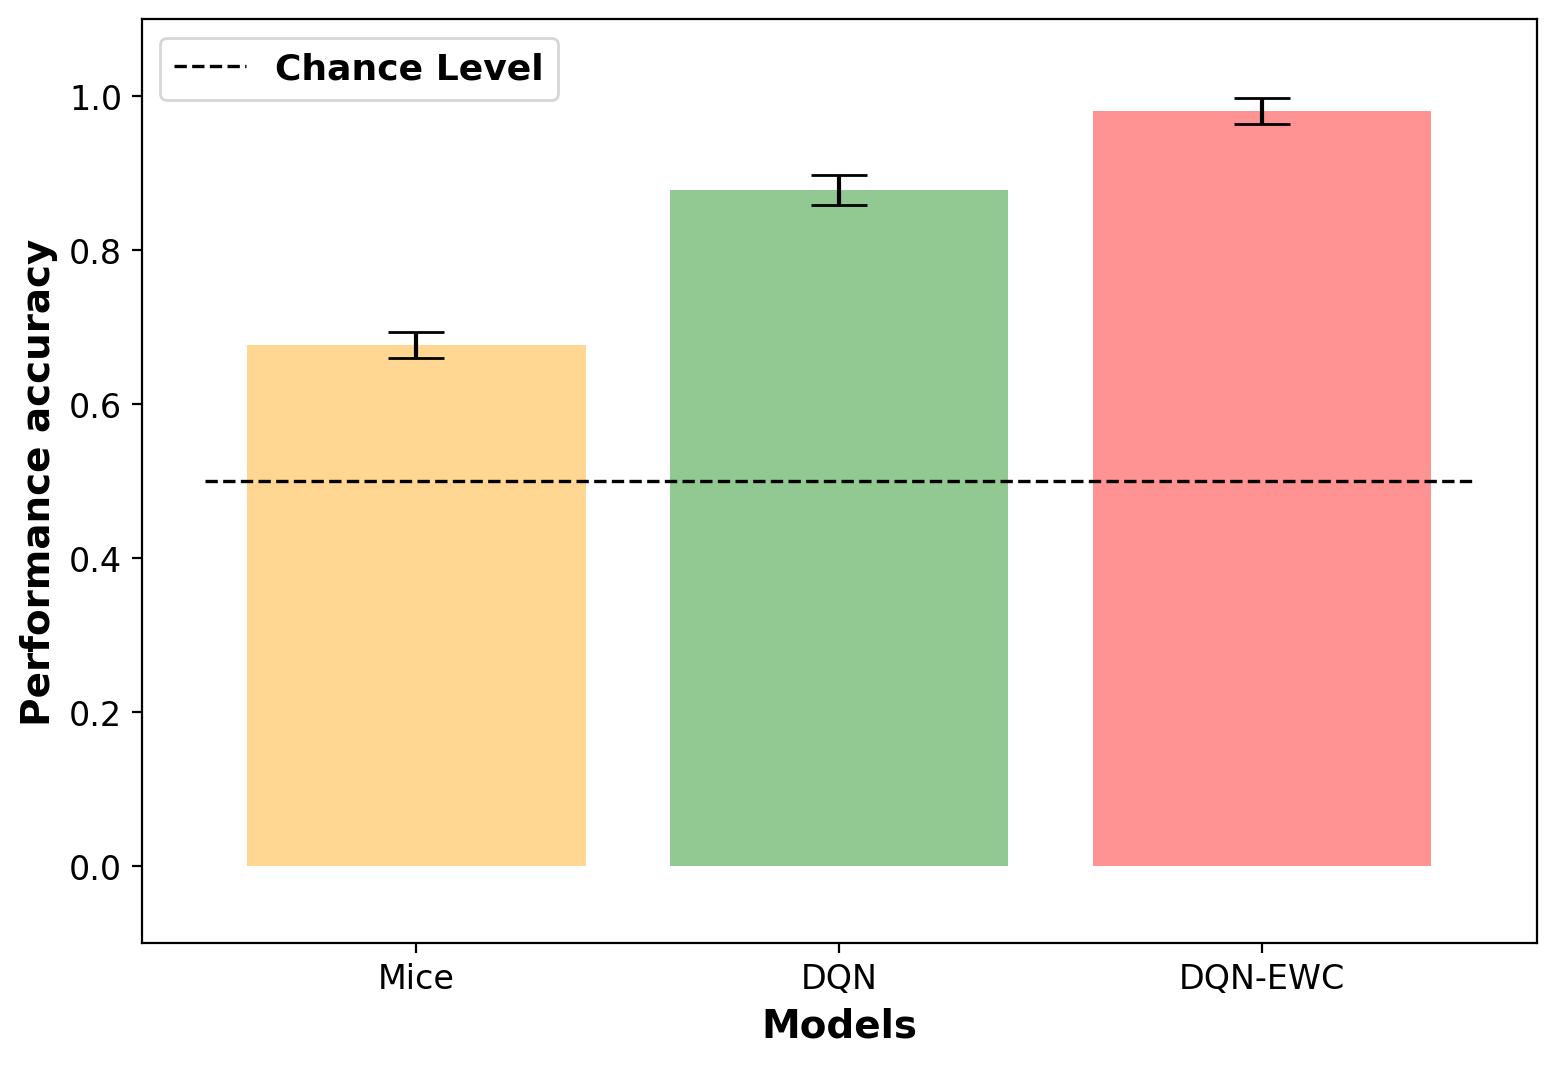
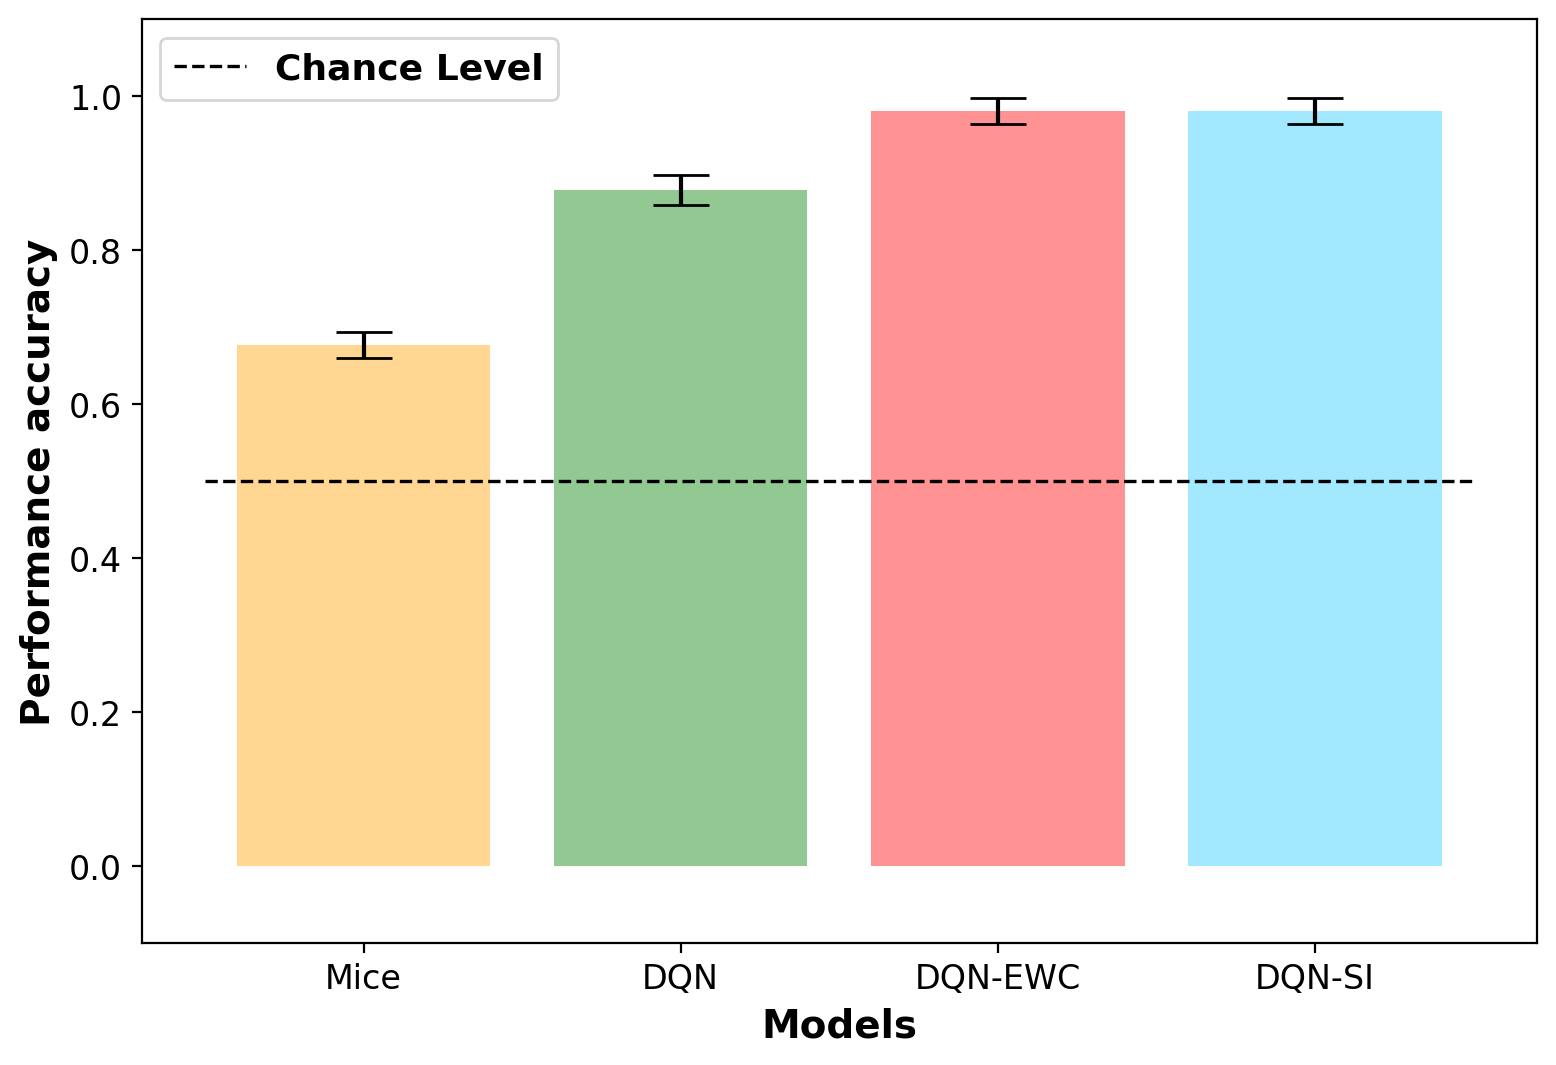
Added SI

diff --git a/Maze/samia_plot.py b/Maze/samia_plot.py
@@ -32,14 +32,19 @@ def movingaverage(interval, window_size):
     window= np.ones(int(window_size))/float(window_size)
     return np.convolve(interval, window, 'same')
 
-def getTrialsPlot(NAME, EWC):
+def getTrialsPlot(NAME, EWC, SI):
 
-   ewc_path = "" if EWC else "no_"
+   path = "no_EWC"
+   if EWC: 
+      path = "EWC"
+   if SI:
+      path = "SI"
+
    csv_path = f"data/trials/{NAME}.csv"
 
    trials = pd.read_csv(csv_path).T.to_dict().values()
-   allo_cnt = np.load(f"data/trials/{NAME}_{ewc_path}EWC_allo.npy", allow_pickle=True)
-   ego_cnt = np.load(f"data/trials/{NAME}_{ewc_path}EWC_ego.npy", allow_pickle=True)
+   allo_cnt = np.load(f"data/trials/{NAME}_{path}_allo.npy", allow_pickle=True)
+   ego_cnt = np.load(f"data/trials/{NAME}_{path}_ego.npy", allow_pickle=True)
    # allo_cnt, ego_cnt = extractRat(trials)
 
    sections = []
@@ -101,8 +106,8 @@ def getTrialsPlot(NAME, EWC):
       ax.axvline(switch, color='green', linestyle='--', linewidth=1.2, label="Within Task Switch")
 
    ax.hlines(0.5,1,len(trials),linestyles='dashed',linewidth=1.2, color='k', label='Chance Level')
-   ax.hlines(correct_allo/total_allo,1,len(trials),linestyles='dashed',linewidth=1.2, color='b', label='Allocentric Perf. Mean')
-   ax.hlines(correct_ego/total_ego,1,len(trials),linestyles='dashed',linewidth=1.2, color='r', label='Egocentric Perf. Mean')
+   ax.hlines(correct_allo/total_allo,1,len(trials),linestyles='dashed',linewidth=1.2, color='r', label='Allocentric Perf. Mean')
+   ax.hlines(correct_ego/total_ego,1,len(trials),linestyles='dashed',linewidth=1.2, color='b', label='Egocentric Perf. Mean')
 
    print("Allo perf: ", correct_allo/total_allo);
    print("Ego perf: ", correct_ego/total_ego);
@@ -118,12 +123,14 @@ def getTrialsPlot(NAME, EWC):
    legend_properties = {'weight':'bold','size': 13}
    lgd=ax.legend(by_label.values(), by_label.keys(),loc='lower center', bbox_to_anchor=(0.5, -0.24), ncol=7, fancybox=True, shadow=True, prop=legend_properties)
 
-   hasEWC = "-EWC" if EWC else ""
-   fig.suptitle(f"Continual learning across allocentric and egocentric tasks with DQN{hasEWC}",fontsize=16, fontweight='bold')
+   extention = ""
+   if EWC: extention = "-EWC"
+   if SI: extention = "-SI"
+   fig.suptitle(f"Continual learning across allocentric and egocentric tasks with DQN{extention}",fontsize=16, fontweight='bold')
    # fig.suptitle(f"Continual learning across allocentric and egocentric tasks from Mice",fontsize=16, fontweight='bold')
    plt.margins(0.01,0.01)
-   plt.savefig(f"plots/Trials-{NAME}-{ewc_path}EWC", bbox_inches='tight', dpi=200)
-   # plt.savefig(f"plots/Trials-{NAME}-{ewc_path}EWC.pdf", bbox_inches='tight', dpi=200)
+   plt.savefig(f"plots/Trials-{NAME}-{path}", bbox_inches='tight', dpi=200)
+   # plt.savefig(f"plots/Trials-{NAME}-{path}EWC.pdf", bbox_inches='tight', dpi=200)
    # plt.savefig(f"plots/Trials-{NAME}-Mice", bbox_inches='tight', dpi=200)
    plt.show()	
 
@@ -159,8 +166,8 @@ def getAcc(allo, elo, trials):
    pallo = correct_allo/total_allo
    pego = correct_ego/total_ego
 
-   # return statistics.mean([pallo, pego]), statistics.stdev([pallo, pego])
-   return correct_allo + correct_ego
+   return statistics.mean([pallo, pego]), statistics.stdev([pallo, pego])
+   # return correct_allo + correct_ego
 
 
 def getAccPlot(NAME):
@@ -171,21 +178,24 @@ def getAccPlot(NAME):
    ego = np.load(f"data/trials/{NAME}_no_EWC_ego.npy", allow_pickle=True)
    ewc_allo = np.load(f"data/trials/{NAME}_EWC_allo.npy", allow_pickle=True)
    ewc_ego = np.load(f"data/trials/{NAME}_EWC_ego.npy", allow_pickle=True)
+   si_allo = np.load(f"data/trials/{NAME}_SI_allo_3.npy", allow_pickle=True)
+   si_ego = np.load(f"data/trials/{NAME}_SI_ego_3.npy", allow_pickle=True)
    rat_allo, rat_ego = extractRat(trials)
 
    acc_rat, err_rat = getAcc(rat_allo, rat_ego, trials)
    acc_dqn, err_dqn = getAcc(allo, ego, trials)
    acc_ewc, err_ewc = getAcc(ewc_allo, ewc_ego, trials)
+   acc_si, err_si = getAcc(ewc_allo, ewc_ego, trials)
 
    fig=plt.figure(figsize=[9,6])
    ax=fig.add_subplot(111)
 
-   index = np.arange(3)
+   index = np.arange(4)
    ax.set_xlabel('Models', fontsize=14, fontweight='bold')
    ax.set_ylabel('Performance accuracy', fontsize=14, fontweight='bold')
    ax.set_xticks(index)
    ax.tick_params(axis='both', which='major', labelsize=12)
-   ax.set_xticklabels(["Mice", "DQN", "DQN-EWC"])
+   ax.set_xticklabels(["Mice", "DQN", "DQN-EWC", "DQN-SI"])
    ax.set_yticks(np.arange(0, 1.1, 0.2))
    ax.set_ylim((-0.1,1.1))
    # ax.title('Market Share for Each Genre 1995-2017)
@@ -194,7 +204,7 @@ def getAccPlot(NAME):
    # plt.axhline(y=0.5, linestyle='dashed',linewidth=1.2, color='k', label='Chance Level')
    # plt.margins(0.01,0.01)
    
-   ax.bar(index, [acc_rat, acc_dqn, acc_ewc], yerr=[err_rat, err_dqn, err_ewc], color=['#FFD17F', '#7FBF7F', '#FF7F7F'], align='center', alpha=0.85, ecolor='black', capsize=10)
+   ax.bar(index, [acc_rat, acc_dqn, acc_ewc, acc_si], yerr=[err_rat, err_dqn, err_ewc, err_si], color=['#FFD17F', '#7FBF7F', '#FF7F7F', '#92E5FF'], align='center', alpha=0.85, ecolor='black', capsize=10)
 
    legend_properties = {'weight':'bold','size': 13}
    ax.legend(prop=legend_properties, loc="upper left")
@@ -280,9 +290,50 @@ def getHiddenAcc(NAME):
    plt.savefig(f"plots/Trials-{NAME}-Hidden", bbox_inches='tight', dpi=200)
    plt.show()	
 
+def getStepsPlot(NAME):
+
+   dqn_1 = 37.548507462686565
+   dqn_2 = 32.095149253731343
+   dqn_3 = 31.345149253731343
+   dqn_4 = 46.28917910447761
+   dqn_mean = statistics.mean([dqn_1, dqn_2, dqn_3, dqn_4])
+   dqn_var  = statistics.stdev([dqn_1, dqn_2, dqn_3, dqn_4])
+
+   ewc_1 = 27.167910447761194
+   ewc_2 = 21.94402985074627
+   ewc_3 = 32.94589552238806
+   ewc_4 = 21.78171641791045
+   ewc_mean = statistics.mean([ewc_1, ewc_2, ewc_3, ewc_4])
+   ewc_var  = statistics.stdev([ewc_1, ewc_2, ewc_3, ewc_4])
+
+   si_1 = 20.824626865671643
+   si_2 = 24.938432835820894
+   si_3 = 15.830223880597014
+   si_4 = 19.71455223880597
+   si_mean = statistics.mean([si_1, si_2, si_3, si_4])
+   si_var  = statistics.stdev([si_1, si_2, si_3, si_4])
+
+   fig=plt.figure(figsize=[9,6])
+   ax=fig.add_subplot(111)
+
+   index = np.arange(3)
+   ax.set_xlabel('Models', fontsize=14, fontweight='bold')
+   ax.set_ylabel('Avg. Steps per trial', fontsize=14, fontweight='bold')
+   ax.set_xticks(index)
+   ax.tick_params(axis='both', which='major', labelsize=12)
+   ax.set_xticklabels(["DQN", "DQN-EWC", "DQN-SI"])
+   ax.set_yticks(np.arange(0, 50.1, 10))
+   ax.set_ylim((-0.1,51))
+
+   ax.bar(index, [dqn_mean, ewc_mean, si_mean], yerr=[dqn_var, ewc_var, si_var], color=['#FFD17F', '#7FBF7F', '#FF7F7F', '#92E5FF'], align='center', alpha=0.85, ecolor='black', capsize=10)
+
+   plt.savefig(f"plots/Trials-{NAME}-Steps", bbox_inches='tight', dpi=200)
+   plt.show()	
+
 NAME = "sc03"
 EWC = True
 
-# getTrialsPlot(NAME, EWC)
+# getTrialsPlot(NAME, True, False)
 # getAccPlot(NAME)
-getHiddenAcc(NAME)
+# getHiddenAcc(NAME)
+getStepsPlot(NAME)

diff --git a/Maze/SI.py b/Maze/SI.py
@@ -1,0 +1,90 @@
+import torch
+import torch.nn as nn
+import torch.nn.functional as F
+
+from DQN import Net, DQN
+from copy import deepcopy
+import random
+from Transition import Transition
+
+class SI(object):
+    def __init__(self, dqn: DQN, c, epsilon, device='cpu'):
+        self.dqn = dqn
+        self.model = dqn.eval_model
+        self.dataset = dqn.old_memory
+
+        self.params = {n: p for n, p in self.model.named_parameters() if p.requires_grad}
+        
+        self.SI_prev = {}
+        self.SI_omega = {}
+
+        # Register starting params
+        for n, p in self.model.named_parameters():
+            if p.requires_grad:
+                n = n.replace('.', '__')
+                self.SI_prev[n] = p.data.clone()
+
+        self.c = c 
+        self.epsilon = epsilon
+
+    def refresh_W(self):
+        self.W = {}
+        self.p_old = {}
+        for n, p in self.model.named_parameters():
+            if p.requires_grad:
+                n = n.replace('.', '__')
+                self.W[n] = p.data.clone().zero_()
+                self.p_old[n] = p.data.clone()
+
+    def update_W(self):
+        for n, p in self.model.named_parameters():
+            if p.requires_grad:
+                n = n.replace('.', '__')
+                if p.grad is not None:
+                    self.W[n].add_(-p.grad*(p.detach()-self.p_old[n]))
+                self.p_old[n] = p.detach().clone()
+
+    def update_omega(self):
+        for n, p in self.model.named_parameters():
+
+            if p.requires_grad:
+                n = n.replace('.', '__')
+
+                # Find/calculate new values for quadratic penalty on parameters
+                p_prev = self.SI_prev[n]
+                p_current = p.detach().clone()
+                p_change = p_current - p_prev
+
+                omega_add = self.W[n] / (p_change**2 + self.epsilon)
+
+                try:
+                    omega = self.SI_omega[n]
+                except KeyError:
+                    omega = p.detach().clone().zero_()
+
+                omega_new = omega + omega_add
+
+                self.SI_prev[n] = p_current
+                self.SI_omega[n] = omega_new
+
+    def penalty(self):
+        try:
+            losses = []
+
+            for n, p in self.model.named_parameters():
+                if p.requires_grad:
+                    # Retrieve previous parameter values and their normalized path integral (i.e., omega)
+                    n = n.replace('.', '__')
+                    prev_values = self.SI_prev[n]
+                    omega = self.SI_omega[n]
+
+                    # Calculate SI's surrogate loss, sum over all parameters
+                    losses.append((omega * (p-prev_values)**2).sum())
+
+            return sum(losses)
+
+        except KeyError:
+            # SI-loss is 0 if there is no stored omega yet
+            return torch.tensor(0., device=self._device())
+
+

diff --git a/Maze/DQN.py b/Maze/DQN.py
@@ -28,7 +28,7 @@ class Net(nn.Module):
 
 class DQN(object):
 
-    def __init__(self, gamma, memory_size, target_update_counter, batch_size, num_of_states, num_of_actions, ewc_importance=28):
+    def __init__(self, gamma, memory_size, target_update_counter, batch_size, num_of_states, num_of_actions, ewc_importance=28, si_importance=30):
         self.num_of_states = num_of_states
         self.num_of_actions = num_of_actions
 
@@ -51,6 +51,7 @@ class DQN(object):
         self.gamma = gamma
         self.epsilon = EPSILON_MAX
         self.ewc_importance = ewc_importance
+        self.si_importance = si_importance
 
     def choose_action(self, state):
         # From np.array to torch
@@ -84,7 +85,7 @@ class DQN(object):
 
         self.memory = ReplayMemory(self.memory_size)
 
-    def learn(self, ewc=None):
+    def learn(self, ewc=None, si=None):
         if len(self.memory) < self.batch_size:
             return
 
@@ -108,12 +109,17 @@ class DQN(object):
         new_q = (q_next * self.gamma) + reward_batch
 
         loss = self.loss_func(q_eval, new_q)
-        # if ewc is not None:
-        #     penalty = ewc.penalty(self.eval_model)
-        #     updated_loss = loss + self.ewc_importance * penalty
-        #     # print(f"Loss: {loss}, Penalty: {penalty}, Updated loss: {updated_loss}")
-        #     loss = updated_loss
+        if ewc is not None:
+            penalty = ewc.penalty(self.eval_model)
+            updated_loss = loss + self.ewc_importance * penalty
+            # print(f"Loss: {loss}, Penalty: {penalty}, Updated loss: {updated_loss}")
+            loss = updated_loss
 
+        if si is not None:
+            penalty = si.penalty()
+            updated_loss = loss + self.si_importance * penalty
+            # print(f"Loss: {loss}, Penalty: {penalty}, Updated loss: {updated_loss}")
+            loss = updated_loss
 
         loss.backward()
         self.optimizer.step()

diff --git a/Maze/env.py b/Maze/env.py
@@ -1,6 +1,7 @@
 import pandas as pd
 import csv
 
+from SI import SI
 from DQN import DQN
 from utilities import *
 import torch.nn.functional as F
@@ -103,6 +104,8 @@ last_strategy = 3   # First from sc03...
 trial_outcomes = []
 activation_track = []
 ewc = None
+si = None
+total_steps = 0
 
 total = 0
 show = False
@@ -119,9 +122,20 @@ for trial in trials:
         print(f"Changing strategy from {last_strategy} to {stradegy}")
         last_strategy = stradegy
         dqn.reset_training()
+
         # ewc = EWC(dqn)
 
-    steps = runDQN(dqn, ewc, env, show)
+        # if si is None: 
+        #     si = SI(dqn, 0.5, 0.1)
+        #     si.refresh_W()
+            
+        # si.update_omega()
+        # si.refresh_W()
+
+        
+
+    steps = runDQN(dqn, ewc, si, env, show)
+    total_steps += steps
 
     finished = steps < 200
     if finished: total += 1;
@@ -148,9 +162,10 @@ for trial in trials:
 print(len(allo))
 print(len(ego))
 print(total)
+print(f"Average steps: {total_steps/len(trials)}")
 # np.save("test2", np.array(activation_track))
-np.save(f"data/trials/{NAME}_no_EWC_allo_300_3", np.array(allo))
-np.save(f"data/trials/{NAME}_no_EWC_ego_300_3", np.array(ego))
+np.save(f"data/trials/{NAME}_SI_allo_3", np.array(allo))
+np.save(f"data/trials/{NAME}_SI_ego_3", np.array(ego))
 
 print("Done saving 1")
 # SAVE OUTPUT

diff --git a/Maze/utilities.py b/Maze/utilities.py
@@ -8,6 +8,7 @@ from tqdm import tqdm
 from Transition import Transition
 from PIL import Image
 from EWC import EWC
+from SI import SI
 from DQN import DQN
 
 def showEnv(env):
@@ -173,7 +174,7 @@ def trainSmart(dqn: DQN, env, EPISODES, DISPLAY_FREQUENCY, config, usingEWC=True
     dqn.learned_tasks += 1
     return episode_durations
 
-def runDQN(dqn: DQN, ewc: EWC, env, show):
+def runDQN(dqn: DQN, ewc: EWC, si:SI, env, show):
     state = env.reset()
     state = env.extractState()
     
@@ -195,10 +196,13 @@ def runDQN(dqn: DQN, ewc: EWC, env, show):
         dqn.store_transition(state, action, reward, next_state)
 
         # Update DQN
-        if ewc is None:
-            dqn.learn()
+        if ewc is not None:
+            dqn.learn(ewc=ewc)
+        elif si is not None:
+            dqn.learn(si=si)
+            si.update_W()
         else:
-            dqn.learn(ewc)
+            dqn.learn()
 
         state = next_state
         steps += 1

diff --git a/Maze/EWC.py b/Maze/EWC.py
@@ -54,5 +54,4 @@ class EWC(object):
             _loss = self._precision_matrices[n] * (p - self._means[n]) ** 2
             loss += _loss.sum()
 
-        # TODO: return (self.lamda/2)*sum(losses)
         return loss
